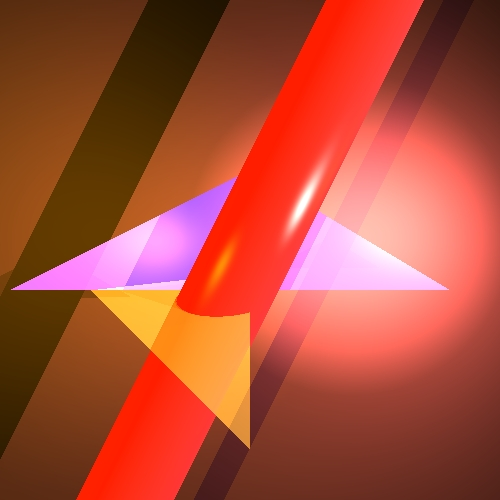
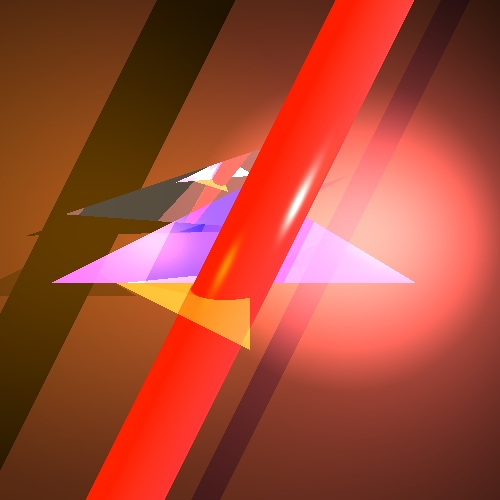
Targil 7 - almost finish 3

diff --git a/unittests/renderer/RenderTests.java b/unittests/renderer/RenderTests.java
@@ -74,19 +74,23 @@ public class RenderTests {
         render.writeToImage();
     }
 
+    /**
+     * Test building an image for with some geometries with all lights
+     **/
     @Test
     public void imageWithSomeGeometriesWithAllLights() {
         Scene scene = new Scene("Test scene");
-        scene.setCamera(new Camera(new Point3D(5, 0, 2), new Vector(-1, 0, 0), new Vector(0, 0, 1)));
+        scene.setCamera(new Camera(new Point3D(6, 0, 2), new Vector(-1, 0, 0), new Vector(0, 0, 1)));
         scene.setDistance(100);
         scene.setBackground(Color.BLACK);
-        //scene.setAmbientLight(new AmbientLight(new Color(255, 191, 191), 1));
         scene.setAmbientLight(new AmbientLight(Color.BLACK, 0.005));
         scene.addGeometries(
+                new Triangle(new Material(0, 1, 0.25, 0.25, 20), new Color(java.awt.Color.darkGray),
+                        new Point3D(-8, -26, 7), new Point3D(-15, -5, 7), new Point3D(-8, 13, 20)),
                 new Plane(new Material(0.5, 0.01, 0.25, 0.25, 1), new Color(java.awt.Color.BLACK),
                         new Point3D(-20, 0, 0),
                         new Vector(-1, 0, 0)),
-                new Triangle(new Material(1, 0, 0.25, 0.25, 20), new Color(90,90,9),
+                new Triangle(new Material(1, 0, 0.25, 0.25, 20), new Color(90, 90, 9),
                         new Point3D(-4, 0, 0),
                         new Point3D(4, 0, 0),
                         new Point3D(0, -8, 0)),
@@ -96,9 +100,9 @@ public class RenderTests {
                         new Ray(new Point3D(0, -1, 0), new Vector(0, 1, 2)), 2));
 
         scene.addLights(
-                new SpotLight(new Color(1020, 400, 400), new Point3D(20,50,10),
-                        new Vector(-40,-20,-10), 1, 0.00001, 0.000005),
-               new PointLight(new Color(500, 300, 0), new Point3D(80, -80, 10),
+                new SpotLight(new Color(1020, 400, 400), new Point3D(20, 50, 10),
+                        new Vector(-40, -20, -10), 1, 0.00001, 0.000005),
+                new PointLight(new Color(500, 300, 0), new Point3D(80, -80, 10),
                         1, 0.000001, 0.0001),
                 new DirectionalLight(new Color(50, 50, 0), new Vector(7.88, -35.25, -10)));
 

diff --git a/src/renderer/Render.java b/src/renderer/Render.java
@@ -83,6 +83,9 @@ public class Render {
      * Method to get the color of ambientLight
      *
      * @param geoPoint geoPoint for paint
+     * @param inRay    ray from camera to geometry
+     * @param level    max iteration of recursion
+     * @param k        min iteration of recursion
      * @return color in the point on geometry
      **/
     private Color calcColor(GeoPoint geoPoint, Ray inRay, int level, double k) {
@@ -326,6 +329,7 @@ public class Render {
      *
      * @param geoPoint
      * @param inRay
+     * @param n        vector normal
      * @return refracted ray
      **/
     private Ray constructRefractedRay(Point3D geoPoint, Ray inRay, Vector n) {
@@ -364,7 +368,7 @@ public class Render {
     /**
      * Get partial shading
      *
-     * @param light
+     * @param light    light source
      * @param l        vector from light source
      * @param n        normal
      * @param geopoint point

diff --git a/src/primitives/Ray.java b/src/primitives/Ray.java
@@ -9,7 +9,7 @@ import static primitives.Util.isZero;
 public class Ray {
     private Point3D _POO;
     private Vector _direction;
-    public static final double DELTA = 0.1;
+    public static final double DELTA = 0.1; // to move in the epsilon
 
     /**
      * Constructor of Ray that contain Point3D and direction to object Ray
@@ -25,9 +25,9 @@ public class Ray {
     /**
      * Constructor of Ray that contain Point3D and direction and normal to object Ray
      *
-     * @param point       for starting point
+     * @param point     for starting point
      * @param direction for direction vector
-     * @param normal normal to object
+     * @param normal    normal to object
      **/
     public Ray(Point3D point, Vector direction, Vector normal) {
         //point + normal.scale(±DELTA)

diff --git a/src/geometries/Intersectable.java b/src/geometries/Intersectable.java
@@ -17,7 +17,7 @@ public interface Intersectable {
         public Point3D _point;
 
         /**
-         * Ctor for GeoPoint
+         * C'tor for GeoPoint
          *
          * @param geometry
          * @param point

diff --git a/src/element/Light.java b/src/element/Light.java
@@ -9,7 +9,7 @@ abstract class Light {
     protected Color _intensity;
 
     /**
-     * Ctor for light
+     * C'tor for light
      *
      * @param intensity
      **/
